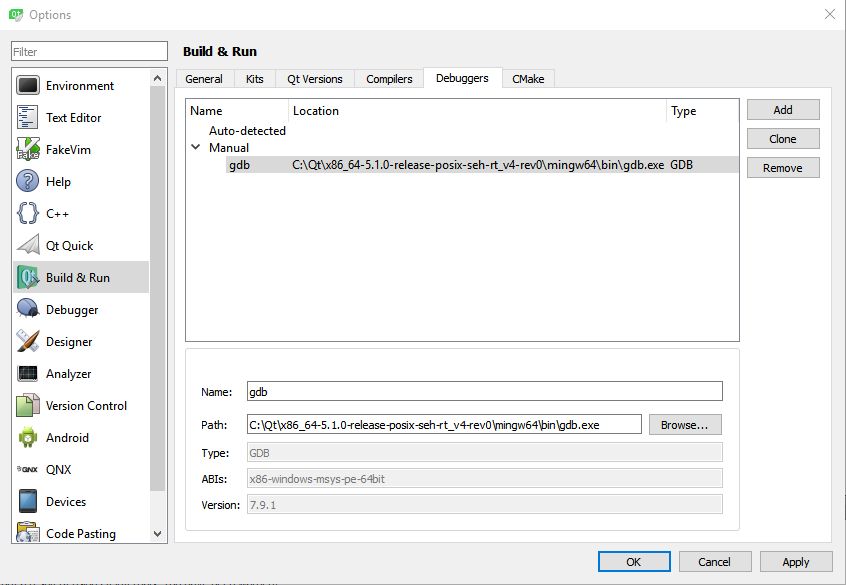
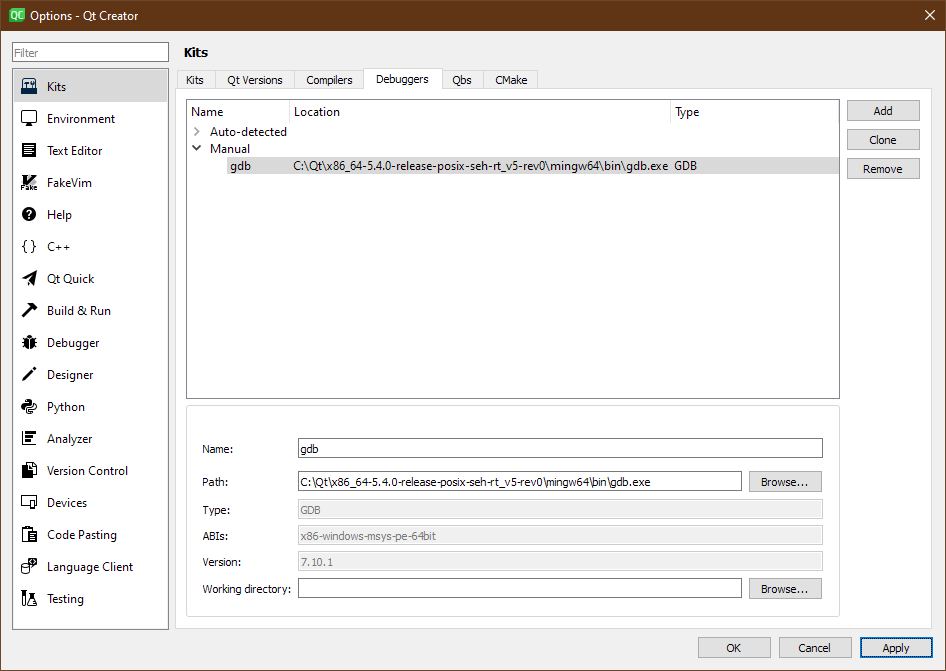
update Windows SDK instructions

Changed region(s): [[0.0, 0.0, 1.0, 1.0], [0.7069, 0.1538, 0.7376, 0.1846]]

diff --git a/notes/windowsdev/index.md b/notes/windowsdev/index.md
@@ -5,8 +5,9 @@ category: notes
 ---
 
 1. Download and install the following:
+
   - [Qt Creator](https://www.qt.io/download-open-source/)
-  - [Our special build of the Qt 5.9.7 SDK that includes QtWebKit](https://s3.amazonaws.com/misc.meltymedia/shotcut-build/qt-5.9.7-x64-mingw540-seh.txz)    
+  - [Our special build of the Qt 5.9.7 SDK that includes QtWebKit](https://s3.amazonaws.com/misc.meltymedia/shotcut-build/qt-5.9.7-x64-mingw540-seh.txz)  
     Extract it to C:\Qt\qt-5.9.7-x64-mingw540-seh
   - [MinGW-w64 GCC-5.4.0 for 64-bit Windows](https://sourceforge.net/projects/mingw-w64/files/Toolchains%20targetting%20Win64/Personal%20Builds/mingw-builds/5.4.0/threads-posix/seh/x86_64-5.4.0-release-posix-seh-rt_v5-rev0.7z)  
     Extract it to C:\Qt\x86_64-5.4.0-release-posix-seh-rt_v5-rev0
@@ -14,33 +15,43 @@ category: notes
     Extract it to C:\Projects
 
 2. Check that the following files are in the correct directories:
+
   - C:\Qt\x86_64-5.4.0-release-posix-seh-rt_v5-rev0\mingw64\bin\g++.exe
   - C:\Qt\qt-5.9.7-x64-mingw540-seh\bin\qmake.exe
 
-3. Start Qt Creator and choose **Tools &gt; Options &gt; Build &amp; Run**  
-Configure all of your settings in the Build & Run section.
-  - Manually set the debugger to MinGW's gdb.exe.
-  ![Debug Settings](debuggers_build_run.png)
-  - Manually set the compiler to MinGW's g++.exe
-  ![Compiler(2/2) Settings](compilers_build_run2.png)
-  - Manually set the Qt version.
-  ![Version Settings](versions_build_run.png)
-  - Configure the project kit from the previously set debug, compiler, and Qt version.
-  ![Kit Settings](kits_build_run.png)  
+3. Start Qt Creator and choose **Tools &gt; Options &gt; Kits**  
+Configure the compilers and SDKs settings in the Kits section.
 
-4. Extract the Shotcut SDK .zip file to a new folder in C:\ called "Projects" (C:\Projects).
-5. In Qt Creator open shotcut.pro from C:\Projects\Shotcut\src\shotcut.
-6. In the Shotcut project configuration screen find **Run Settings**.
-  - Go to **Deployment &gt; Add Deploy Step &gt; Make**. In **Make arguments**, enter "install"
-  - Go to **Run &gt; Add &gt; Custom Executable**.  
-    Set **Executable** to "C:\Projects\Shotcut\shotcut.exe"
+  - Manually add MinGW's `gdb.exe` debugger:
+  ![Debugger Settings](debuggers_build_run.png)
+  - Manually add MinGW's `g++.exe` C++ compiler:
+  ![Compiler Settings](compilers_build_run2.png)
+  - Manually add the Qt version:
+  ![Qt Version Settings](versions_build_run.png)
+  - Add a project kit from the previously set debug, compiler, and Qt version:
+  ![Kit Settings](kits_build_run.png)
+  - Click OK
+
+4. Extract the Shotcut SDK .zip file to a new folder in `C:\` named "Projects" (`C:\Projects`).
+5. In Qt Creator open `shotcut.pro` from `C:\Projects\Shotcut\src\shotcut`.
+6. In the **Configure Project** screen, select your previously configured Kit
+   and click **Configure Project**:
+   ![Configure Project](configure_project.png)
+
+7. Click **Projects** in the navigation bar on the left side of the Qt Creator window.  
+   In the left column of the Shotcut project configuration screen click **Run**
+   to show the **Run Settings**:
     ![Run Settings](run_settings.png)
 
-7. Set your build settings in the Shotcut project configuration so that the build steps include MinGW make steps.
-    <a href="build_settings.png">
-    <img src="build_settings.png" alt="Project"></a>
-8. After clicking Run, you can confirm the newly built executable is the one that is running from the About
-   dialog: the version will be "adhoc".
+  - In **Deployment** click **Add Deploy Step &gt; Make**.
+  - In **Make arguments:** enter "install".
+  - In **Run** click **Add... &gt; Custom Executable**;  
+    in **Executable:** enter "C:\Projects\Shotcut\shotcut.exe":
+    ![Run Settings](run_settings2.png)
+
+8. After clicking **Run** (the green play button in bottom left of Qt Creator),
+   you can confirm the newly built executable is the one that is running from the
+   **Help &gt; About Shotcut...** dialog: the version will be "adhoc".
 
 ### Final Project
 
